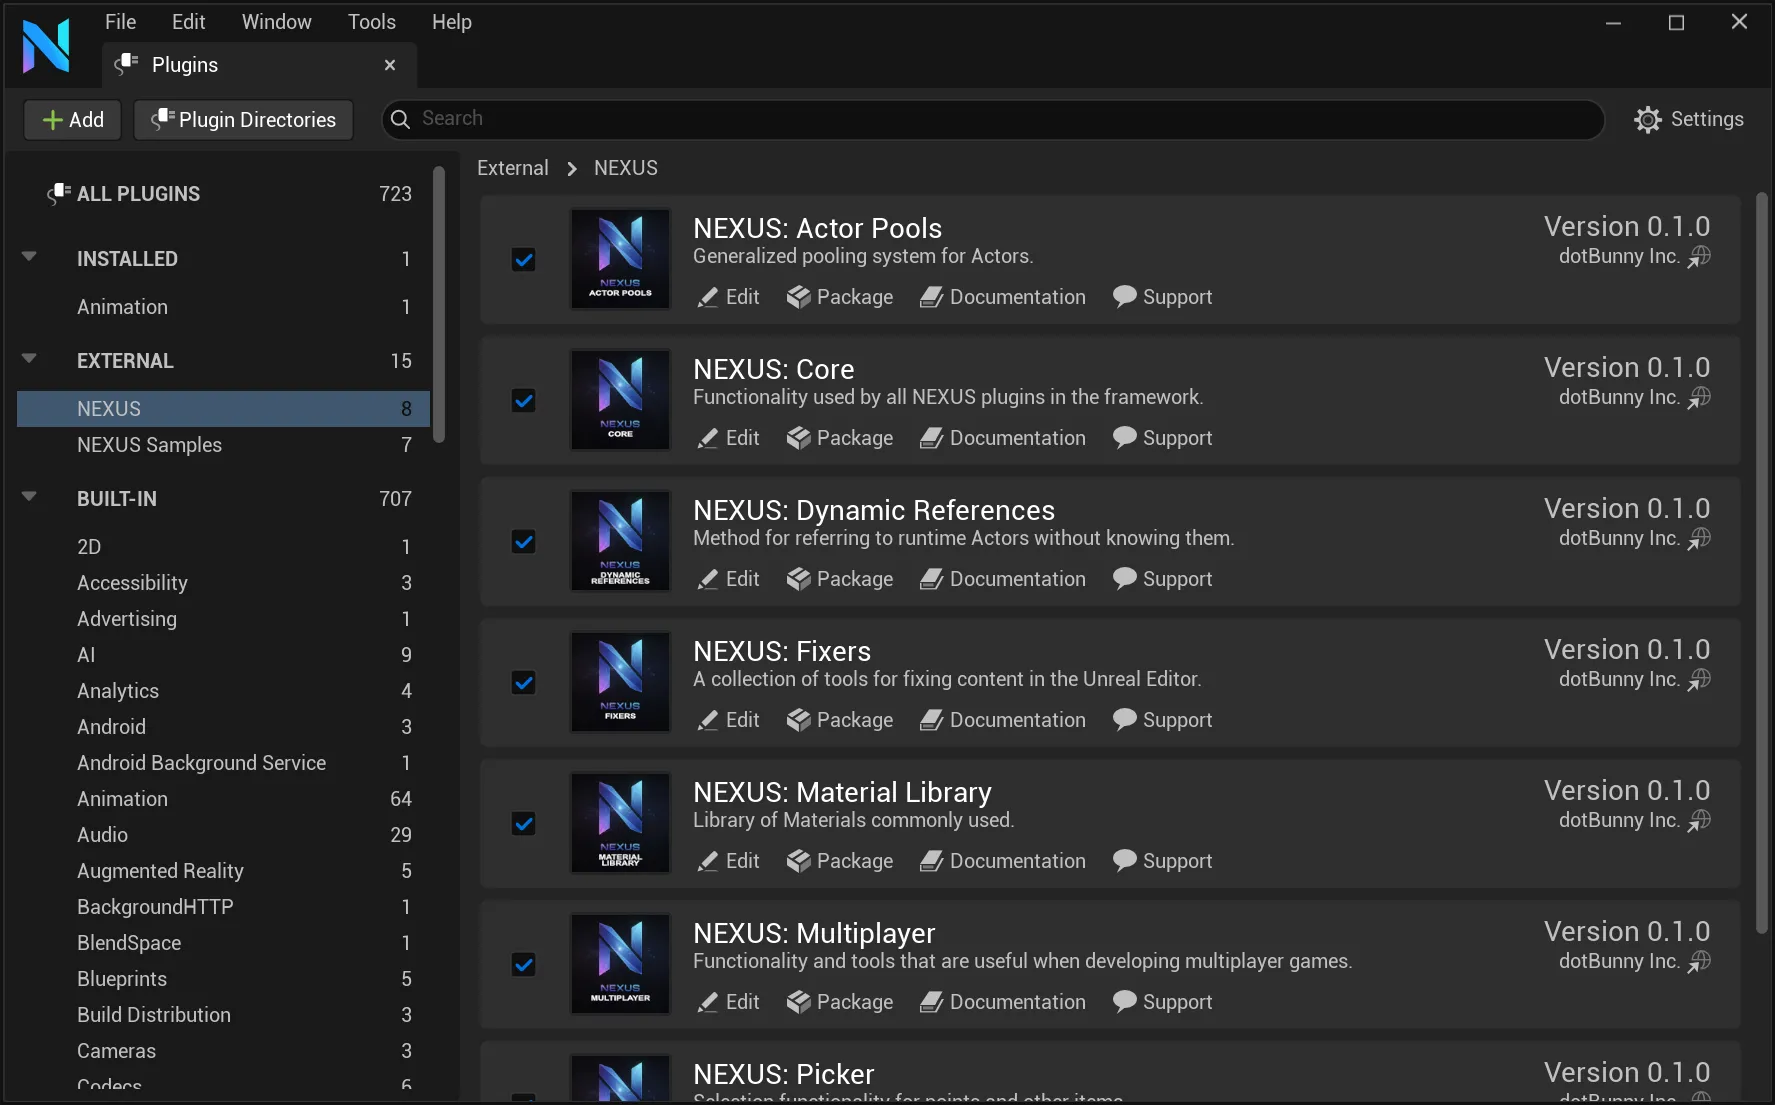
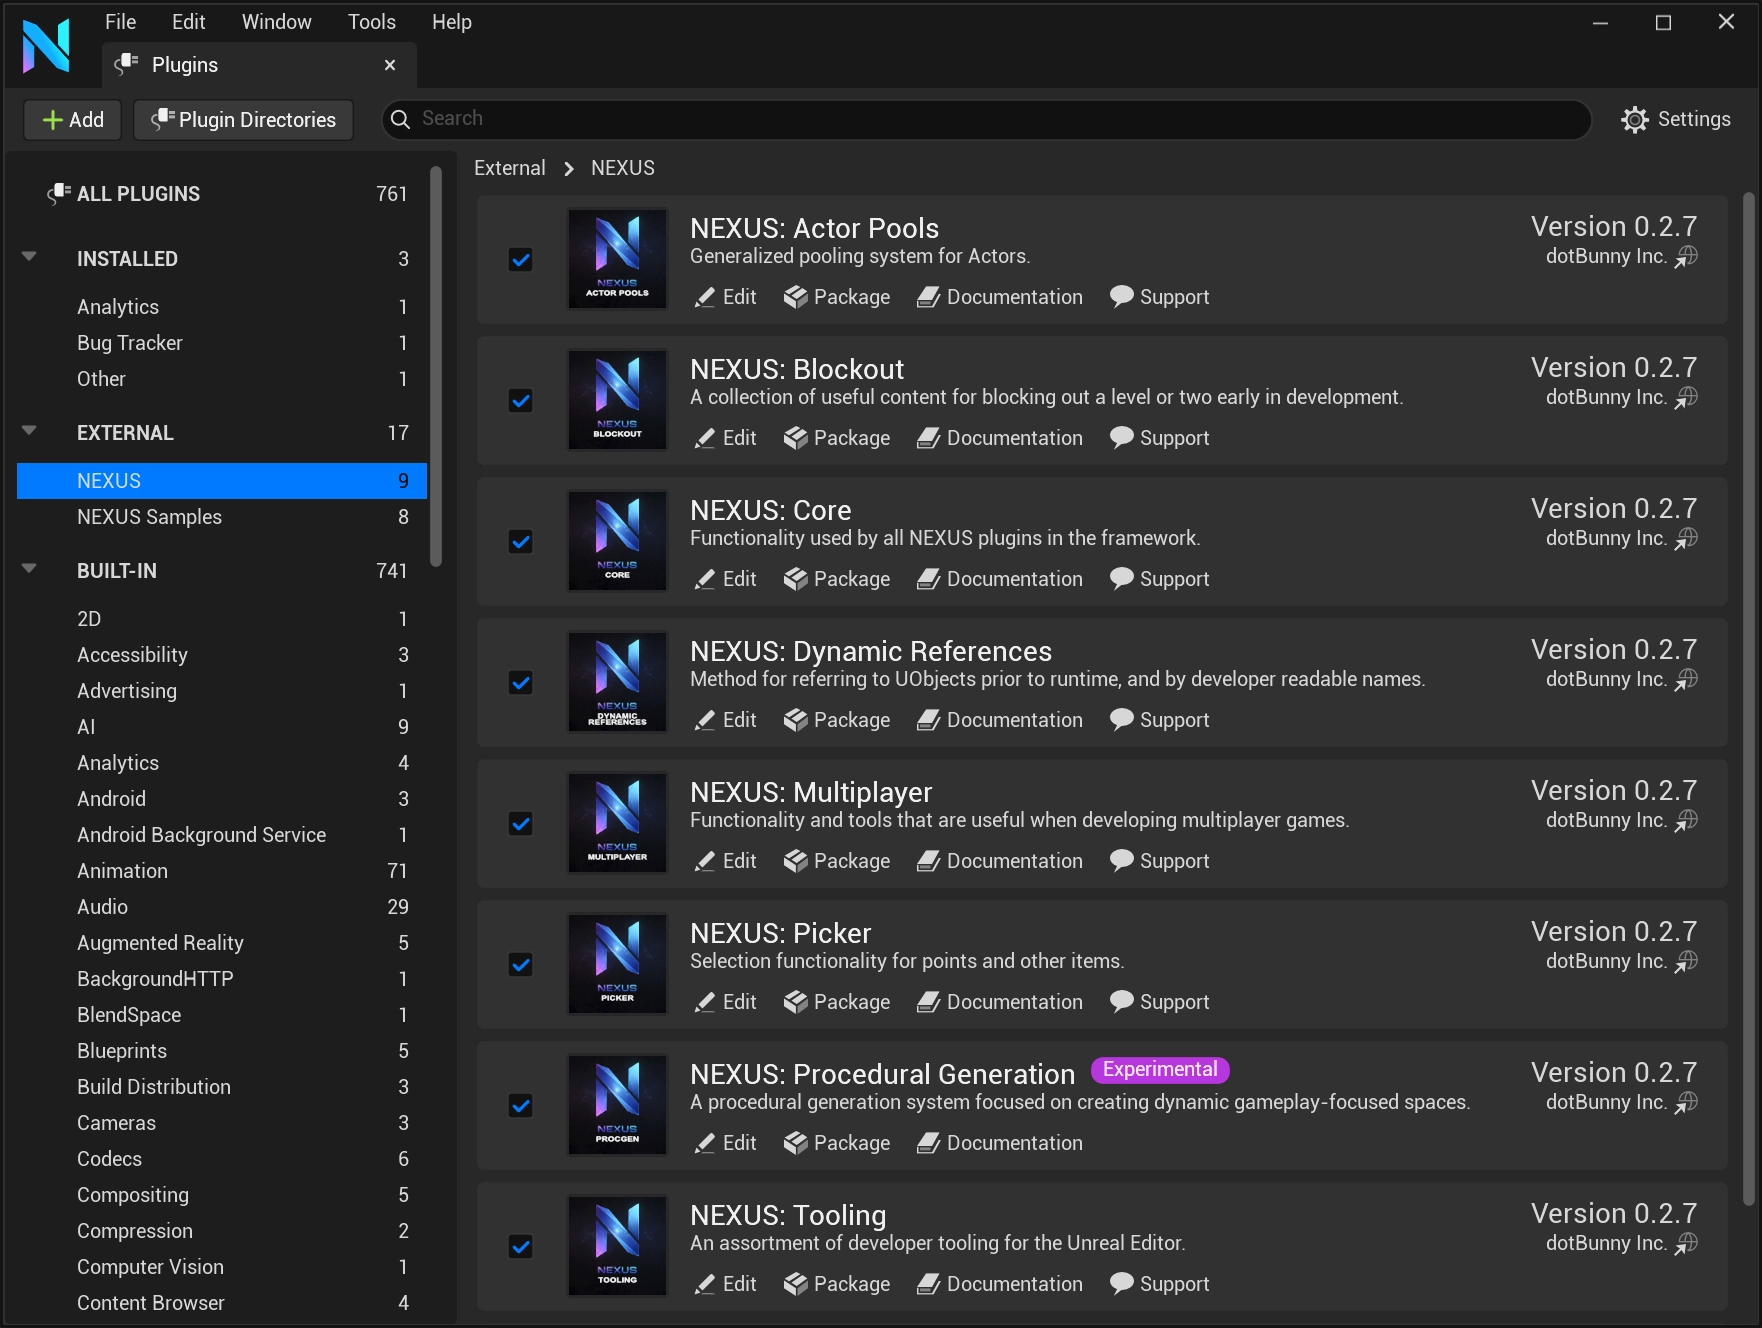
Moving things around more

diff --git a/docusaurus.config.ts b/docusaurus.config.ts
@@ -132,11 +132,6 @@ const config: Config = {
           className: 'plugin-menu'
         },
         {
-          to: '/docs/plugins/fixers',
-          label: 'Fixers',
-          className: 'plugin-menu'
-        },
-        {
           to: '/docs/plugins/multiplayer',
           label: 'Multiplayer',
           className: 'plugin-menu'
@@ -144,6 +139,16 @@ const config: Config = {
         {
           to: '/docs/plugins/picker',
           label: 'Picker',
+          className: 'plugin-menu'
+        },
+        {
+          to: '/docs/plugins/procedural-generation',
+          label: 'Picker',
+          className: 'plugin-menu'
+        },
+        {
+          to: '/docs/plugins/tooling',
+          label: 'Tooling',
           className: 'plugin-menu'
         },
         {

diff --git a/src/components/PluginDetails/index.tsx b/src/components/PluginDetails/index.tsx
@@ -99,15 +99,15 @@ var Plugins: { [id: string]: IPlugin; } = {
     blueprintCategory: "NEXUS > ProcGen"
   },
 
-  "NexusTools": {
-    icon: "/assets/images/plugins/tools-icon.webp",
+  "NexusTooling": {
+    icon: "/assets/images/plugins/tooling-icon.webp",
     moduleName: "NexusTools",
     shortName: "NTools",
     category: "Editor",
     initialRelease: "0.2.7",
     owner: "reapazor",
     description: "An assortment of developer tools for the Unreal Editor.",
-    link: "/docs/plugins/tools/",
+    link: "/docs/plugins/tooling/",
     blueprintCategory: ""
   },
 

diff --git a/docs/getting-started/configuration.md b/docs/getting-started/configuration.md
@@ -1,19 +1,21 @@
 ---
 sidebar_position: 2
-description: No one wants to be forced into having a bunch of overhead, so we utilize a plugin à la carte setup where you opt into just the functionality you want.
+description: No one wants to be forced into having a bunch of overhead, so we utilize a plugin à la carte setup where you opt into just the runtime functionality you want.
 ---
 
 # Configuration
 
 ## Plugins À La Carte
 
-By going to the `Edit -> Plugins` you can configure what parts of the **NEXUS** Framework are loaded.
+By going to the `Edit > Plugins` you can configure what parts of the **NEXUS** Framework are loaded.
 
 ![Plugins Window](configuration-plugins-window.webp)
 
 ### NEXUS
 
 A full list of the available plugins in the **NEXUS** Framework, with only [NEXUS: Core](/docs/plugins/core/) being enabled by default. This pattern enables users to selectively utilize only what they need for their project, minimizing any additional overhead that plugins may cause.
+
+A good starting point is to enable [NEXUS: Tooling](/docs/plugins/tooling/) and [NEXUS: UI](/docs/plugins/ui/), and from there anything that your game may want to take advantage of.
 
 :::tip
 
@@ -23,7 +25,13 @@ Don't forget to update any build targets with references to any plugins used.
 
 ### NEXUS Samples
 
-For many plugins, there is a counterpart plugin that houses sample content. They’re broken out into individuals to allow for fine-grain control of inclusion into your project. Additionally, there is a [TestProject](/docs/getting-started/test-project/) at the root of the repository, which serves as a showcase project for all the plugins and hosts all our functional tests
+For many of the **NEXUS** Framework plugins, there is a counterpart plugin that houses sample content. They’re broken out into individuals to allow for fine-grain control of inclusion into your project. Additionally, there is a [TestProject](/docs/getting-started/test-project/) at the root of the repository, which serves as a showcase project for all the plugins and hosts all our functional tests
+
+## Project Settings
+
+Some of the plugins have presistent configuration values used at runtime, these are found in the **NEXUS** section of the **Project Settings**.
+
+![Project Settigns Window](configuration-project-settings.webp)
 
 ## Editor Preferences
 

diff --git a/docs/getting-started/updates.md b/docs/getting-started/updates.md
@@ -1,6 +1,6 @@
 ---
 sidebar_position: 4
-description: A simple system to notify you developers of when updates are available to the NEXUS Framework.
+description: A simple system to notify developers of when updates are available to the NEXUS Framework.
 ---
 
 # Updates
@@ -17,13 +17,7 @@ Customizing the behaviour and frequency of the update check can be done in the E
 | --- | :-- | :-- | 
 | `Check For Updates` | Should update checks be made?  | `true` |
 | `Frequency (Days)` | After how many days should an update check be made. | `7` |
-| `Channel` | What channel to monitor for updates: `Mainline`, `Development` or a `Custom` one. | `Mainline` |
+| `Channel` | What channel to monitor for updates: `Main`, `Release` or a `Custom` one. | `Release` |
 | `Custom Query URI` | [`Channel==Custom`] A fully qualified URI to the `NCoreMinimal.h` file located in a custom repository to be checked as the source of updates. | `<empty>` |
 | `Custom Update URI` |  [`Channel==Custom`] A fully qualified URI to open when an updated is detected and requested. | `<empty>` |
 | `Ignore Version Number <=` | A project settable version number that is compared against `N_VERSION_NUMBER` to determine if an update should be ignored. Allowing developers to set up ignores for the notification project-wide based on customized versions. | `N_VERSION_NUMBER` |
-
-## Last Checked
-
-There is a locally saved timestamp in a developer's workspace that is viewable in `NEXUS > Core (User) > Updates`.
-
-![Update Last Checked](updates-last-checked.webp)

diff --git a/docs/getting-started/installation.md b/docs/getting-started/installation.md
@@ -38,4 +38,4 @@ One of the design pillars for this framework is to ensure that it is functionall
 
 ## Upgrading
 
-While we do our best to minimize the impact of API changes, there are times when an API may change in definition between versions.  We will do our best to call out those changes in the [CHANGELOG](/community/changelog/), as well as provide a set of [Core Redirects](https://dev.epicgames.com/documentation/en-us/unreal-engine/core-redirects-in-unreal-engine) that can be implemented to resolve any content remapping.
+While we do our best to minimize the impact of API changes, there are times when an API may change in definition between versions.  We will do our best to call out those changes in the [CHANGELOG](/community/changelog/), as well as provide a set of [Core Redirects](https://dev.epicgames.com/documentation/en-us/unreal-engine/core-redirects-in-unreal-engine) that can be implemented to resolve any content remapping _if possible_.

diff --git a/docs/plugins/tooling/debuggers/collision-visualizer.md b/docs/plugins/tooling/debuggers/collision-visualizer.md
@@ -1,0 +1,21 @@
+---
+sidebar_label: Collision Visualizer
+description: TODO
+tags: [0.2.7]
+---
+
+# Collision Visualizer
+
+A tool used to quickly test world traces and their responses.
+
+![Collision Visualizer](collision-visualizer-demo.webp)
+
+:::info
+
+After watching George Prosser's UnrealFest 2023 talk [Collision Data in UE5](https://www.youtube.com/watch?v=xIQI6nXFygA) we set about creating our interpretation of the tool with a different method of integration. We later found out about the publicly available [UECollisionQueryTools](https://github.com/StudioGobo/UECollisionQueryTools) repository. Credits to George and the team at Studio Gobo for the great inspiration for this tool.
+
+:::
+
+## Configuration
+
+![Collision Viz Window](collision-visualizer-window.webp)

diff --git a/docs/plugins/tooling/validators/blueprint-validator.md b/docs/plugins/tooling/validators/blueprint-validator.md
@@ -22,7 +22,7 @@ By default, the severity of this validation is set to `Error` due to its direct 
 project-wide in `Editor Preferences > NEXUX > Fixers > Blueprint: Empty Tick`
 
 
-![Empty Tick Severity](blueprint-empty-tick-severity.webp)
+![Empty Tick Severity](validator-settings.webp)
 
 ## IsMultiPinPureNode
 
@@ -38,7 +38,7 @@ This function of the `UNBlueprintValidator` looks for occurances where this occu
 
 ### Severity
 
-![Multi-Pin Pure Node Severity](blueprint-multi-pin-pure-node-severity.webp)
+![Multi-Pin Pure Node Severity](validator-settings.webp)
 
 By default, the severity of this validation is set to `Warning`, as it will not break your project, and resolving it requires some cognitive load.
 

diff --git a/docs/getting-started/faq.md b/docs/getting-started/faq.md
@@ -6,9 +6,9 @@ description: Some of the more common questions that come to mind are answered.
 
 # Frequently Asked Questions
 
-## What’s the deal with all the modules having the same Version/Number?
+## What’s the deal with all the plugins having the same Version/Number?
 
-The UPlugin files for all modules are automatically updated when the `N_VERSION_NUMBER`, `N_VERSION_MAJOR`, `N_VERSION_MINOR`, and `N_VERSION_PATCH` are updated inside of `NCoreMinimal.h`.
+The `UPlugin` definitions for all plugins are automatically updated when the `N_VERSION_NUMBER`, `N_VERSION_MAJOR`, `N_VERSION_MINOR`, and `N_VERSION_PATCH` are updated inside of `NCoreMinimal.h`.
 
 :::info[Mix & Match Versions]
 

diff --git a/docs/plugins/tooling/debuggers/leak-check.md b/docs/plugins/tooling/debuggers/leak-check.md
@@ -14,6 +14,6 @@ If a leak is detected, a `FNObjectSnapshotDiff` will be written out to the proje
 
 ## Settings 
 
-The configuration of the delay is a user-defined setting, available in a developer's Editor Preferences under  `NEXUS > Core (User) > Leak Check > Duration`.
+The configuration of the delay is a user-defined setting, available in a developer's Editor Preferences under  `NEXUS > Tooling (User) > Leak Check > Duration`.
 
-![Developer Subsystem: Settings](leak-check-settings.webp)
+![Tooling Settings: Leak Check](leak-check-settings.webp)

diff --git a/docs/plugins/tooling/editor-enhancements/performance.md b/docs/plugins/tooling/editor-enhancements/performance.md
@@ -23,6 +23,6 @@ A quick toggle to ensure that the Unreal Editor's Performance setting for showin
 
 ## Settings
 
-The configuration for these features is available in the Editor Preferences under  `NEXUS > Core (User) > Editor Performance`.
+The configuration for these features is available in the Editor Preferences under  `NEXUS > Tooling (User) > Editor Performance`.
 
 ![Editor Performance Settings](performance-settings.webp)

diff --git a/docs/getting-started/test-project.md b/docs/getting-started/test-project.md
@@ -1,6 +1,6 @@
 ---
 sidebar_position: 3
-description: The secret sauce of the framework is using a demonstration project as its functional testbed. There you have it, the big secret.
+description: The secret sauce of the framework is using a demonstration project as its functional testbed. There you have it — the big secret. Now you can stop searching and make your game!
 ---
 
 # Test Project

diff --git a/docs/plugins/tooling/validators/engine-content-validator.md b/docs/plugins/tooling/validators/engine-content-validator.md
@@ -30,7 +30,7 @@ While there is no officially stated best-practice for when you explicitly need t
 
 The severity and behaviour of this validator can be configured, project-wide in `Editor Preferences > NEXUX > Fixers > Engine: Content Change`
 
-![Engine Content Preferences](engine-content-preferences.webp)
+![Engine Content Preferences](validator-settings.webp)
 
 ### Gotcha (Materials)
 
